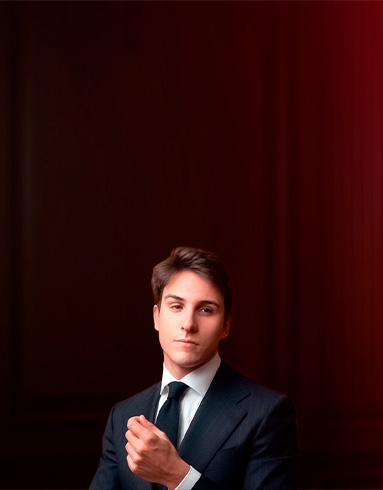
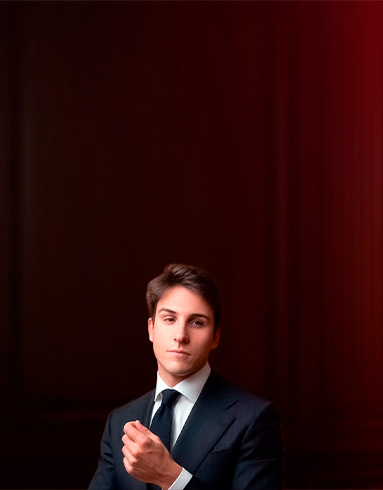
fix(hero-mobile): align-items flex-start + padding-top 75px — texto no topo da seção

Changed region(s): [[0.2585, 0.4898, 0.6031, 1.0], [0.5457, 0.7653, 0.7467, 1.0]]

diff --git a/assets/css/muller-custom.css b/assets/css/muller-custom.css
@@ -1836,7 +1836,8 @@ input, textarea, select, [contenteditable] {
 /* ─── Hero mobile: imagem heromob.jpg + espaço 450px para advogado ─── */
 @media (max-width: 767.98px) {
   .welcome4-section-area {
-    padding-top: 40px !important;
+    align-items: flex-start !important;
+    padding-top: 75px !important;
     padding-bottom: 450px !important;
     background-image:
     /* ───   linear-gradient(rgba(6,6,6,0.78), rgba(6,6,6,0.78)),─── */